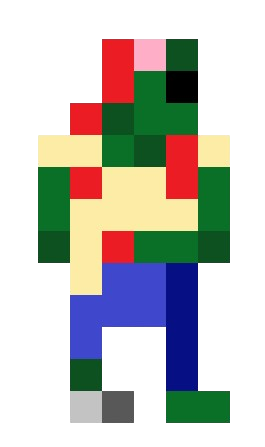
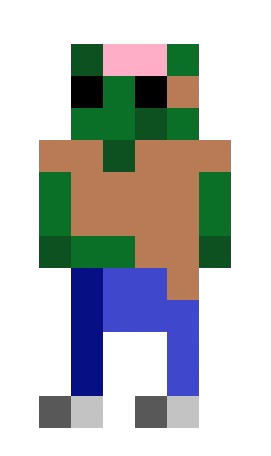
refactor zombie names and add textures for zombs

diff --git a/game.py b/game.py
@@ -39,24 +39,27 @@ FONT_SMALL = pygame.font.Font("assets/pokemonFont.ttf", 20)
 # Used for score points and stuff
 FONT_TINY = pygame.font.Font("assets/pokemonFont.ttf", 12)
 
+BACKDROP = pygame.image.load("assets/background.png")
+BACKDROP = pygame.transform.scale(BACKDROP, (WIDTH, HEIGHT))
+
 # Sound effects
 SOUND_SHOOT = pygame.mixer.Sound("assets/shoot2.wav")
 SOUND_DEATH = pygame.mixer.Sound("assets/death.wav")
 SOUND_HURT = pygame.mixer.Sound("assets/hurt.wav")
 SOUND_PLAYER_HURT = pygame.mixer.Sound("assets/player_hurt.wav")
 SOUND_WIN = pygame.mixer.Sound("assets/vicroy.wav")
-SOUND_SCORE_ADD = pygame.mixer.Sound("assets/score_add.wav")
+SOUND_SCORE_ADD = pygame.mixer.Sound("assets/score_add2.wav")
 
 TAG_PLAYER = "player"
 TAG_ZOMBIE = "zombie"
 TAG_BULLET = "bullet"
 
 # Pygame constants
-screen = pygame.display.set_mode((WIDTH, HEIGHT))
+screen = pygame.display.set_mode((WIDTH, HEIGHT), pygame.SRCALPHA)
 clock = pygame.time.Clock()
 
 # When true, draws debug hitboxes around all characters
-SHOW_DEBUG_HITBOXES = False
+show_debug_hitboxes = False
 
 # Used for animations and stuff
 class Stopwatch:
@@ -122,12 +125,12 @@ class Player(GameObject, ABC):
 
     def __init__(self):
         p_rect = pygame.Rect(WIDTH // 2 - 20 // 2, HEIGHT // 2 - 20 // 2, 24, 48)
-        p_surf = pygame.image.load("assets/Chardle_Small.png").convert_alpha()
-        p_surf = pygame.transform.scale(p_surf, p_rect.size)
+        self.p_surf = pygame.image.load("assets/Chardle_Small.png").convert_alpha()
+        self.p_surf = pygame.transform.scale(self.p_surf, p_rect.size)
         self.health = 100.0
         self.hurt_timer = Stopwatch()
         self.hurt_timer.start()
-        super().__init__(p_rect, p_surf, TAG_PLAYER)
+        super().__init__(p_rect, self.p_surf, TAG_PLAYER)
 
 
     def render(self, display_screen):
@@ -177,6 +180,10 @@ class Player(GameObject, ABC):
                 self.shoot(screen_pos[0], screen_pos[1])
 
 
+        if self.hurt_timer.has_passed(250):
+            self.surface = self.p_surf
+
+
     # Fires a projectile with the current load-out towards the current position
     def shoot(self, x, y):
         # Bullet mathematics
@@ -197,12 +204,18 @@ class Player(GameObject, ABC):
         current_scene.game_objects.append(Bullet(px, py, mx, my))
 
 
+
     def on_hurt(self, zombie):
         # Hurting the player
         if self.hurt_timer.has_passed(750):
             self.health -= 12.5
             pygame.mixer.Sound.play(SOUND_PLAYER_HURT, 0)
             self.hurt_timer.restart()
+
+            red = pygame.Surface(self.rect.size)
+            red.fill(RED)
+            self.surface = red
+
 
 
 """
@@ -261,13 +274,15 @@ class Bullet(GameObject, ABC):
 
 class Zombie(GameObject, ABC):
 
-    shot = False
     movement_speed = 3.5
 
     def __init__(self, x, y):
-        z_rect = pygame.Rect(x, y, 20, 20)
-        z_surf = pygame.Surface(z_rect.size)
-        z_surf.fill((32, 255, 32))
+        self.zomb_type = random.randint(1, 4)
+        w = 40 if self.zomb_type != 4 else 90
+        h = 60 if self.zomb_type != 4 else 90
+        z_rect = pygame.Rect(x, y, w, h)
+        z_surf = pygame.image.load(f"assets/Zombie_{self.zomb_type}.png").convert_alpha()
+        z_surf = pygame.transform.scale(z_surf, z_rect.size)
 
         super().__init__(z_rect, z_surf, TAG_ZOMBIE)
 
@@ -276,6 +291,11 @@ class Zombie(GameObject, ABC):
         # Typically either 1 or -1 or 0
         self.x_dir = 0
         self.y_dir = 0
+
+        self.shot = False
+
+        # 1-5 are normal, 6 is big zombie
+
 
 
     def render(self, display_screen):
@@ -342,6 +362,7 @@ class Zombie(GameObject, ABC):
         pygame.mixer.Sound.play(SOUND_DEATH, 0)
         if type(current_scene) == World:
             current_scene.kill_count += 1
+            current_scene.zombie_count -= 1
         pass
 
 
@@ -487,6 +508,9 @@ class World(Scene, ABC):
     # Wave is 20 seconds long
     wave_length = 20 * 1000
 
+    dimming = pygame.Surface((WIDTH, HEIGHT), pygame.SRCALPHA)
+    dimming.fill((0, 0, 0, 64))
+
     def __init__(self):
         super().__init__("world")
         self.player = Player()
@@ -516,12 +540,14 @@ class World(Scene, ABC):
 
 
     def draw_scene(self, display_screen):
-        global SHOW_DEBUG_HITBOXES, WHITE, game_score, WIDTH, HEIGHT
+        global show_debug_hitboxes, WHITE, game_score, WIDTH, HEIGHT
         # Backdrop
-        display_screen.fill(BLACK)
+        display_screen.blit(BACKDROP, (0, 0))
+
+        display_screen.blit(self.dimming, (0, 0))
 
         # Player hitbox (if applicable)
-        if SHOW_DEBUG_HITBOXES:
+        if show_debug_hitboxes:
             player_box = pygame.Surface(self.player.rect.size)
             player_box.fill((255, 0, 255))
             display_screen.blit(player_box, self.player.rect.topleft)
@@ -531,7 +557,7 @@ class World(Scene, ABC):
 
         # Draw zombies and bullets
         for obj in self.game_objects:
-            if SHOW_DEBUG_HITBOXES:
+            if show_debug_hitboxes:
                 hitbox = pygame.Surface((obj.rect.w + 2, obj.rect.h + 2))
                 hitbox.fill((255, 0, 0))
                 display_screen.blit(hitbox, (obj.rect.x - 1, obj.rect.y - 1))
@@ -554,13 +580,13 @@ class World(Scene, ABC):
 
         """ Wave indicators """
         if self.wave_starting:
-            countdown = round((3000 - self.wave_countdown.elapsed_time()) / 1000.0, 1)
+            countdown = max(0.0, round((3000 - self.wave_countdown.elapsed_time()) / 1000.0, 1))
             countdown_text = FONT.render(f"Wave starting in {countdown}s...",
                                          True, WHITE)
             display_screen.blit(countdown_text, (WIDTH / 2 - (countdown_text.get_width() / 2),
                                                  HEIGHT / 2 - (countdown_text.get_height() / 2)))
         elif self.wave_active:
-            wave_remaining = round((self.wave_length / 1000.0) - (self.wave_timer.elapsed_time() / 1000.0), 1)
+            wave_remaining = max(0.0, round((self.wave_length / 1000.0) - (self.wave_timer.elapsed_time() / 1000.0), 1))
             remaining_text = FONT_SMALL.render(f"{wave_remaining} seconds left in wave {self.current_wave}", True, WHITE)
             display_screen.blit(remaining_text, (WIDTH / 2 - (remaining_text.get_width() / 2), 4))
 
@@ -584,7 +610,7 @@ class World(Scene, ABC):
 
 
     def update_scene(self, events, keys):
-        global game_score
+        global game_score, show_debug_hitboxes
 
         # initial start
 
@@ -592,9 +618,9 @@ class World(Scene, ABC):
         if len(self.score_queue) != 0:
             self.score_add_delay.start()
 
-            delay = max(750 - (len(self.score_queue) * 25), 100)
+            delay = max(750 - (len(self.score_queue) * 50), 100)
             if self.score_add_delay.has_passed(delay):
-                pygame.mixer.Sound.play(SOUND_SCORE_ADD, 0)
+                # pygame.mixer.Sound.play(SOUND_SCORE_ADD, 0)
                 game_score += self.score_queue[0]
                 self.score_queue.pop(0)
                 self.score_add_delay.stop()
@@ -642,12 +668,14 @@ class World(Scene, ABC):
                         change_scene("menu")
                     case pygame.K_x:
                         change_scene("death")
+                    case pygame.K_h:
+                        show_debug_hitboxes = not show_debug_hitboxes
 
         # Calculate duration of our spawn delay based on what wave we are
-        n = (self.current_wave - 1) * 375
-        r = (random.random() * 100.0)
-        # The absolute shortest delay is 150 ms
-        delay = max(r + 2000 - n, 250)
+        n = (self.current_wave - 1) * 500
+        r = (random.random() * 250.0)
+        # The absolute shortest delay is 100 ms
+        delay = max(r + 2000 - n, 100)
 
         # Spawn zombies when needed
         if self.spawn_timer.has_passed(delay):
